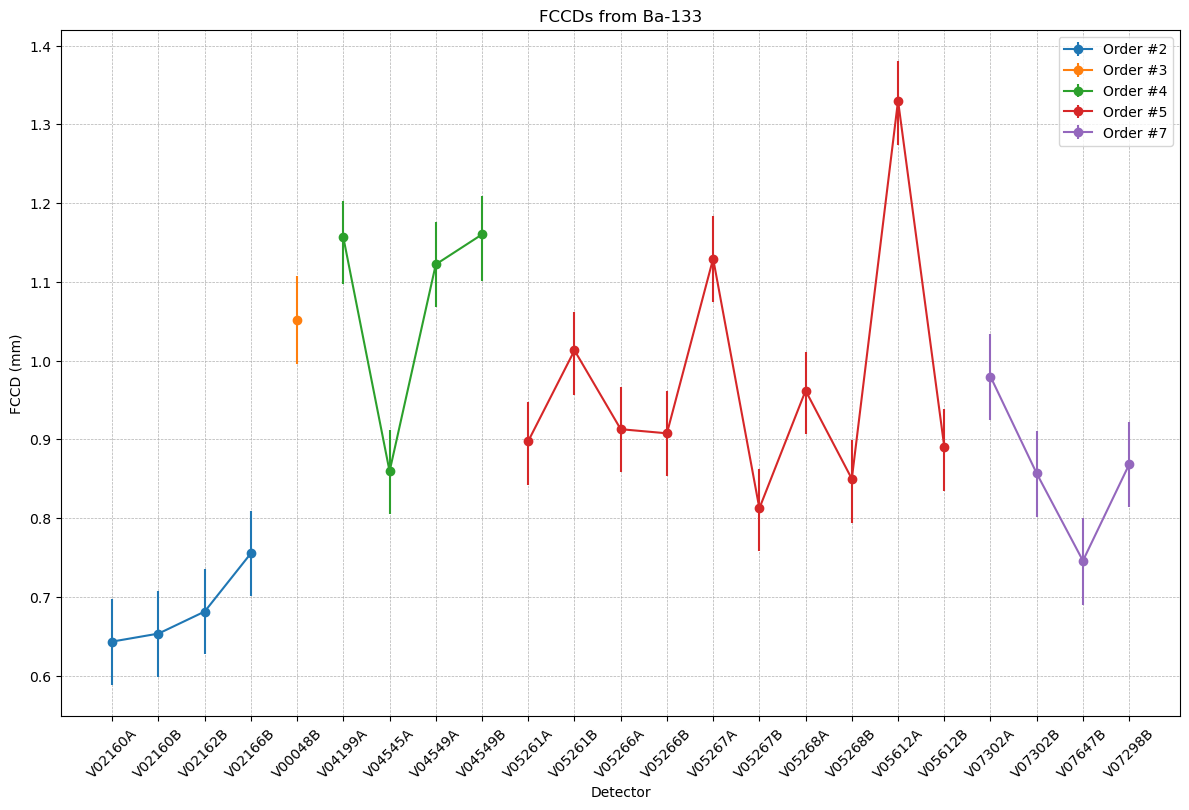
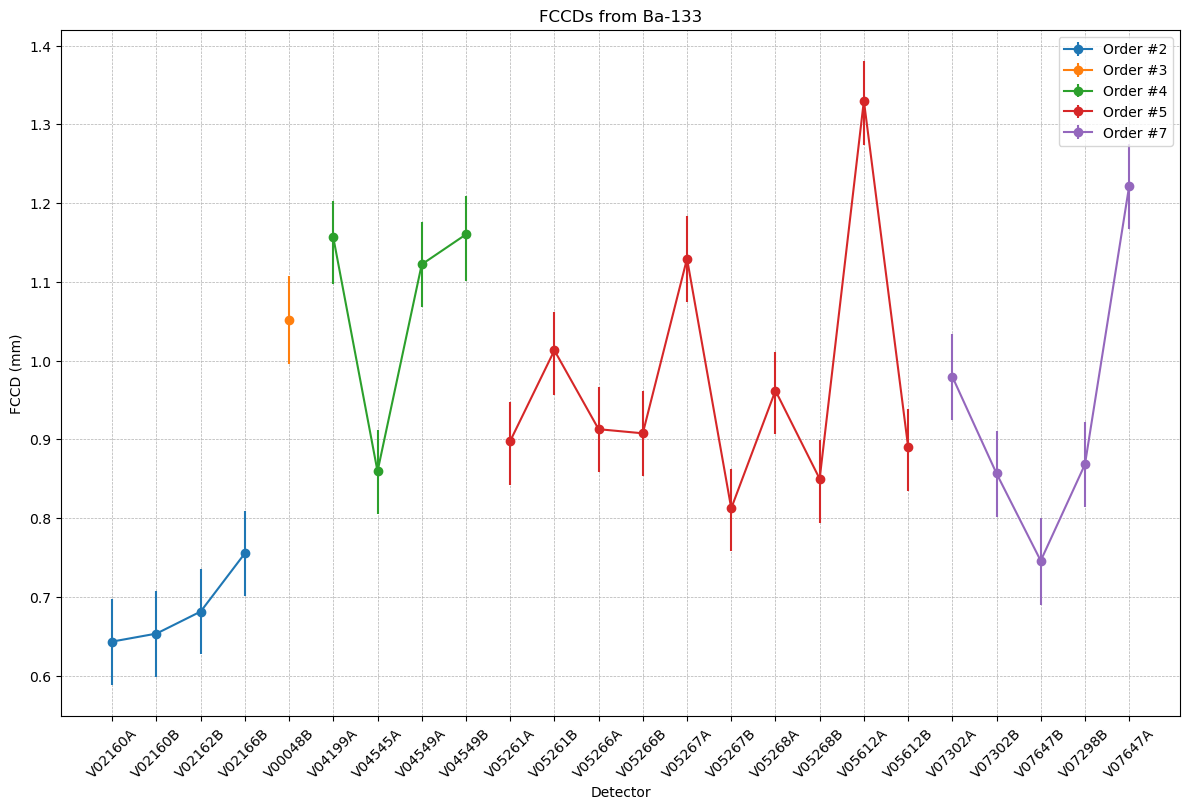
V07XXX detectors

diff --git a/Ba133/Process_Detectors.py b/Ba133/Process_Detectors.py
@@ -30,7 +30,7 @@ def main():
         detectors = detector_list_data["order_"+str(order)]
         for detector in detectors:
 
-            if detector != "V07298B":
+            if detector != "V07647A":
                 continue
 
             #========Calibration - DATA==========
